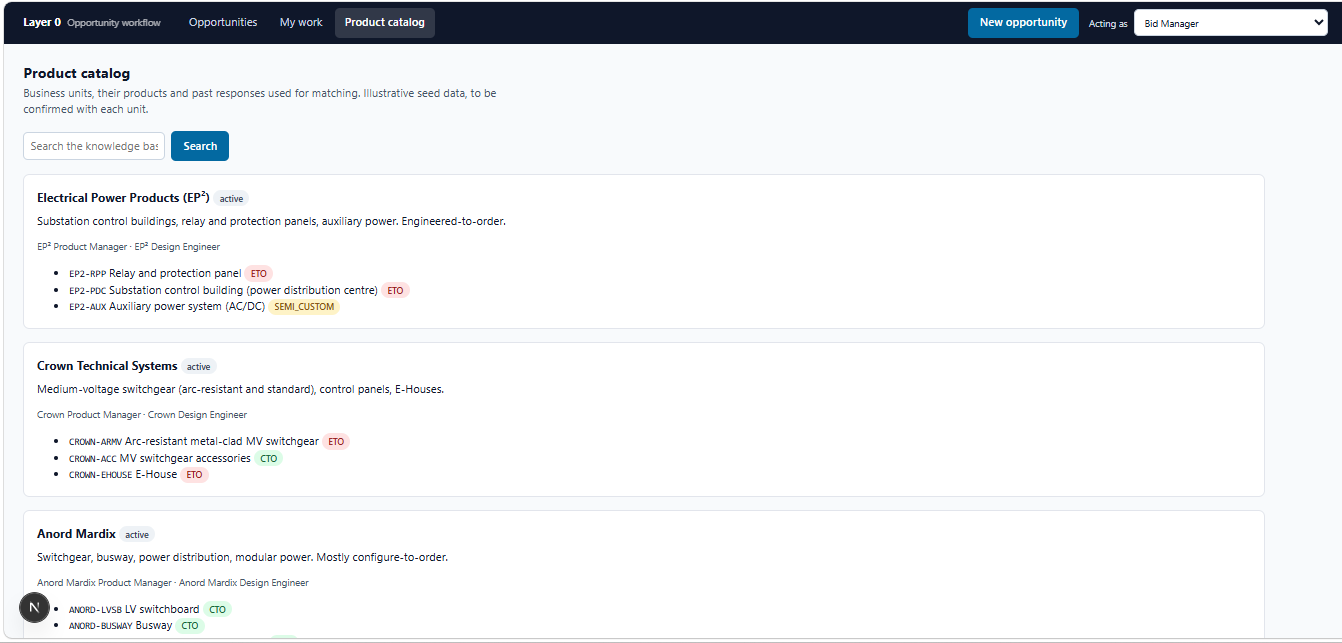
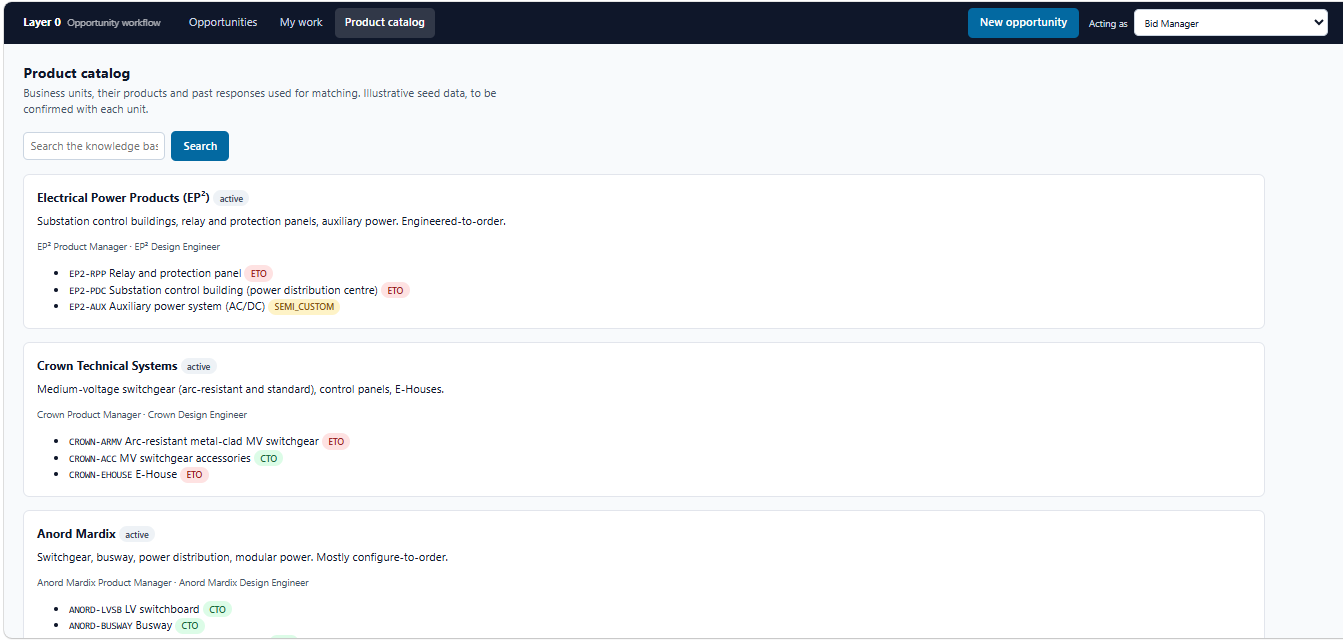
[J-03] walkthrough: refresh five screenshots from the 12 Oct captures

diff --git a/team/tracker/janvia.md b/team/tracker/janvia.md
@@ -8,7 +8,7 @@ Task details and dependencies: [team/PLAN.md](../PLAN.md).
 |---|---|---|---|---|---|
 | J-01 | Clone, `.venv`, seed, run; open the three screens; read `.claude/CLAUDE.md` | S0 | Thu 8 Oct | done | app run locally: walkthrough screenshots taken from it (60faf7a) |
 | J-02 | Polish the three screens for the walkthrough: layout, legend (CTO / Semi-custom / ETO), selected-row and highlight styles, empty states | S1 | Fri 9 Oct AM | done | fed8c0a legend, selected row, status badges, empty states, a11y; follow-ups 0e7f3d8 client wording, bd946ed error message instead of endless loading |
-| J-03 | Walkthrough document `Documents/walkthrough.md` with screenshots (`Documents/images/`), neutral voice | S1 | Fri 9 Oct | review | 60faf7a walkthrough + 12 screenshots. Review 9 Oct: not client-ready yet; checklist below. Refresh: 10 screenshots from the current UI, text on current names, checklist 1, 3, 4, 10, 11 done; items 2, 5-9 open; 93e695a |
+| J-03 | Walkthrough document `Documents/walkthrough.md` with screenshots (`Documents/images/`), neutral voice | S1 | Fri 9 Oct | review | 60faf7a walkthrough + 12 screenshots. Review 9 Oct: not client-ready yet; checklist below. Refresh: 10 screenshots from the current UI, text on current names, checklist 1, 3, 4, 10, 11 done; items 2, 5-9 open; 93e695a. 12 Oct: screenshots 01, 02, 07, 08, 10 refreshed from the 12 Oct captures (data now 348 requirements); 03, 04, 05, 06, 09 still to retake: the uploaded ones showed OPP-0002 and came from a web build older than main |
 | J-04 | Portfolio: per-unit progress bars, status chips, link to each unit's inbox | S2 | Sat 10 Oct | done | per-unit two-segment bars (validated, awaiting validation), status chips, unit names link to `/inbox/<unit>`, "not dispatched" when empty; `web/app/portfolio/page.tsx` + `globals.css` only; build and pytest green; cb08a93 |
 | J-05 | Consolidation page: blocking items link to the three screens; compliance-matrix columns reviewed with the bid-manager view | S3 | Sun 11 Oct | done | parts A+B 3827902 (blockers panel by reason, All/Open filter, links to Traceability, coloured badges); part C: compliance matrix CSV gets Assignment status and Responded by (appended, earlier columns unchanged) and a UTF-8 byte order mark for Excel; self-check and smoke test added; 8ac51a2 |
 | J-06 | Monday demo click-path checklist (in the walkthrough) and a dry run with Piyush | S3 | Mon 12 Oct AM | doing | `team/demo-checklist.md`: click path, script, value messages, backup paths, FAQ, dry-run list, risks (kept in team/, not Documents/: it names the team and lists internal risks). Dry run with Piyush still to do; eb2fd50 |
@@ -30,7 +30,7 @@ Voice, structure and the "Planned" labels are good. Fix the items below before t
 - [x] 11. Add a date line at the top: "Walkthrough as of <date>", naming the build it describes.
 
 **After P-08 (the demo runs on the real extraction):**
-- [ ] 2. Retake all 12 screenshots. They show the old navigation, the old legend and the Next.js development badge (the "N" bottom left). Take them from a production build (`cd web && npm run build && npm start`). 9 Oct: 10 screenshots refreshed from the current UI (Requirements, Bid decision and Final response each joined from two captures). Still open: retake from a production build (no "N" badge).
+- [ ] 2. Retake all 12 screenshots. They show the old navigation, the old legend and the Next.js development badge (the "N" bottom left). Take them from a production build (`cd web && npm run build && npm start`). 9 Oct: 10 screenshots refreshed from the current UI (Requirements, Bid decision and Final response each joined from two captures). Still open: retake from a production build (no "N" badge). 12 Oct: 5 of 10 refreshed (01, 02, 07, 08, 10). To retake for OPP-0001 from a rebuilt web server (`cd web && npm run build`, restart `npm start`): 03 RFP, 04 Requirements, 05 Traceability, 06 Bid decision, 09 Final response. The server on port 3000 was a 9 Oct build, so the top bar lacks Knowledge base and the stepper still says Changes (planned).
 - [ ] 5. §7 Requirements: 9 Oct: filters and search are described; review actions, freeze rule and the seven categories are still open.
   - the review actions: edit, split, merge, add a missed requirement, bulk approve/reject;
   - filters and search;
@@ -64,3 +64,4 @@ The Monday click-path checklist is J-06, a separate task.
 | 10 Oct 2026 | J-06 started: Monday demo checklist written as `team/demo-checklist.md` (14-step click path with a 10-minute cut, script per screen, value messages, backup navigation, client questions, dry-run list, known risks) | dry run with Piyush; J-03 retake; J-07, J-08 |
 | 10 Oct 2026 | Piyush (team handover): demo checklist refreshed after the P-18 reader re-run renumbered the requirements: hero IDs (0887, 0889, 0336, 0893, 0815, 0141, 0001), counts (814 line items, 348 requirements), advice 6 of 9, Excel download (J-08), the deviation flag (A-10) in place of the FPM flag | dry run; J-03 retake |
 | 11 Oct 2026 | Piyush (team handover): walkthrough text updated (Changes built, current demo numbers, Excel matrix, response outline, knowledge base); RFP upload button can no longer be clicked twice; screenshots still to retake | J-03 screenshots; dry run |
+| 12 Oct 2026 | J-03 images: five screenshots refreshed (Opportunities, New opportunity, Acting as, My work, Product catalog). Five held back: the captures showed OPP-0002, partial pages and a web build older than main (no Knowledge base link, Changes still planned, CSV only). Text not touched | rebuild the web server, retake 03, 04, 05, 06, 09 on OPP-0001 |
